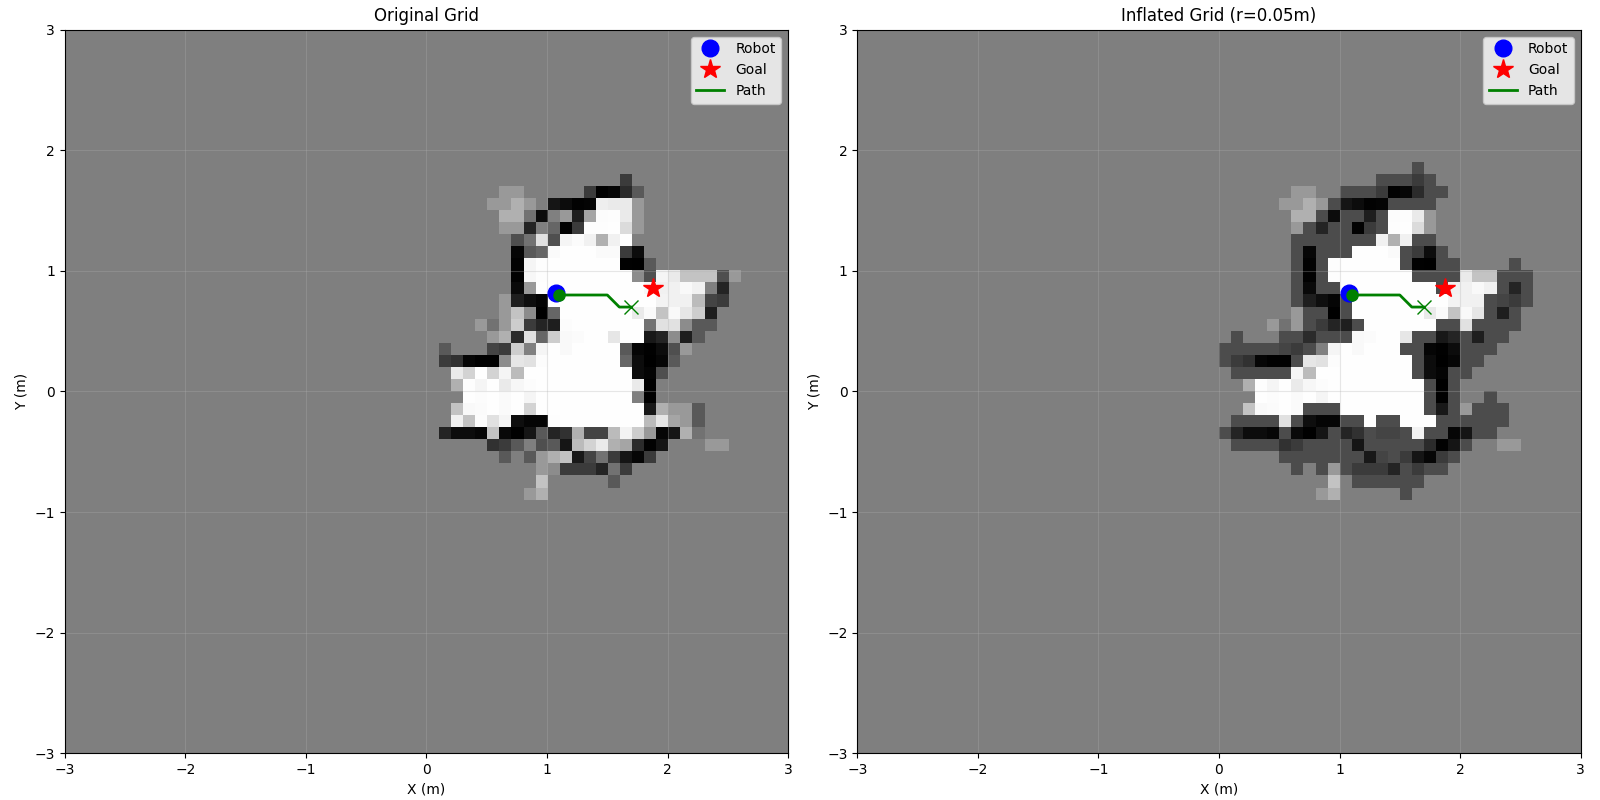
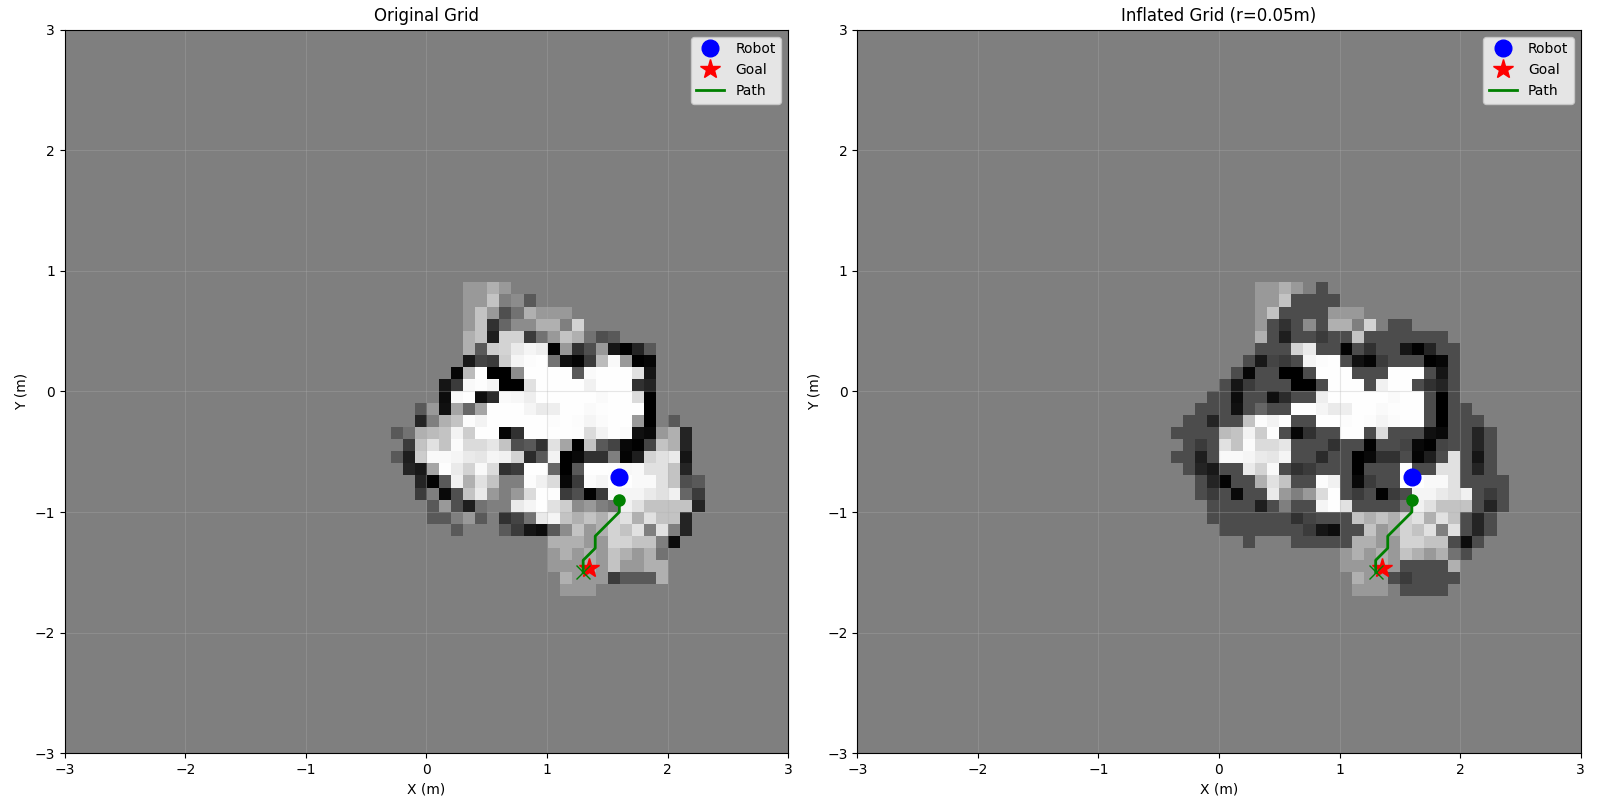
Added continuous checking for obstacles Adjusted replanning parameters

Changed region(s): [[0.7188, 0.1875, 0.9688, 0.75], [0.25, 0.2188, 0.4688, 0.75]]

diff --git a/pc/pc_control.py b/pc/pc_control.py
@@ -47,21 +47,35 @@ def scan(steps=5):
     return result
 
 def move(distance, speed=10):
-    result = ev3.move(left_speed=speed, right_speed=speed, distance_cm=distance)
-    if result is None:
-        print("Error during move")
-        return False
-    
-    dx, dy, dtheta = scans.odometry(
-        result['odometry']['delta_left'],
-        result['odometry']['delta_right'],
-        ekf.get_pose()[2]
-    )
-    ekf.predict(dx, dy, dtheta)
-    
-    pose = ekf.get_pose()
-    trajectory.append(pose.copy())
-    plotter.update(ekf, trajectory)
+
+    interval_cm = 2
+    steps = distance/interval_cm
+    steps = int(steps)
+
+    for step in range(steps):
+        pose = ekf.get_pose()
+        dist = ev3.scan(start_angle=0, end_angle=0)
+        front_dist, _, _ = explorer.get_distances(dist, pose)
+        if front_dist < 0.2:
+            print("Too close to obstacle")
+            return False
+
+        result = ev3.move(left_speed=speed, right_speed=speed, distance_cm=interval_cm)
+        if result is None:
+            print("Error during move")
+            return False
+        
+        dx, dy, dtheta = scans.odometry(
+            result['odometry']['delta_left'],
+            result['odometry']['delta_right'],
+            ekf.get_pose()[2]
+        )
+
+        ekf.predict(dx, dy, dtheta)
+        
+        pose = ekf.get_pose()
+        trajectory.append(pose.copy())
+        plotter.update(ekf, trajectory)
     return True
 
 def rotate(angle, speed=10):
@@ -129,10 +143,10 @@ def navigate_to_waypoint(target_x, target_y, max_steps=20):
         
         # Obstacle check first
         if front_dist < 0.25:
-            consecutive_obstacles += 1
-            print("    Obstacle ahead! Avoiding... (Count: {consecutive_obstacles})")
+            consecutive_obstacles += 2
+            print(f"    Obstacle ahead! Avoiding... (Count: {consecutive_obstacles})")
 
-            if consecutive_obstacles >= 3:
+            if consecutive_obstacles >= 5:
                 print("Persistent obstacle - replanning")
                 return (False, True)
             
@@ -142,7 +156,7 @@ def navigate_to_waypoint(target_x, target_y, max_steps=20):
                 rotate(30)
             continue
         else:
-            consecutive_obstacles=0
+            consecutive_obstacles-=1
         
         # Angle to target
         target_angle = math.atan2(dy, dx)

diff --git a/pc/pc_slam.py b/pc/pc_slam.py
@@ -51,7 +51,7 @@ class EV3Connection:
         })
         return self.recv()
     
-    def scan(self, start_angle=-120, end_angle=120, step=10):
+    def scan(self, start_angle=-90, end_angle=90, step=10):
         self.send({
             "type": "scan",
             "start_angle": start_angle,
@@ -863,19 +863,19 @@ class Explorer:
         front_dist, right_dist, left_dist = self.get_distances(scan_result, pose)
         print(f"  F={front_dist:.2f}m, R={right_dist:.2f}m, L={left_dist:.2f}m")
         
-        if front_dist < (0.35):
+        if front_dist < (0.3):
             # Wall ahead - turn away
             if side == 'right':
                 if not None:
                     print("  Wall ahead, turning left")
-                    return ('rotate', -45)
+                    return ('rotate', -30)
                 else:
                     print("Wall Ahead, Turning right")
                     return('rotate', +45)
             else:
                 if not None:
                     print("  Wall ahead, turning right")
-                    return ('rotate', +45)
+                    return ('rotate', +30)
                 else:
                     print("  Wall ahead, turning left")
                     return ('rotate', -45)
@@ -1004,8 +1004,10 @@ class Explorer:
                 print("  Obstacle ahead! Avoiding...")
                 if left_dist > right_dist:
                     self.rotate(-30)
+                    self.move(-5)
                 else:
                     self.rotate(30)
+                    self.move(-5)
                 continue  # Re-scan after avoiding
             
             # Now safe to turn or move
